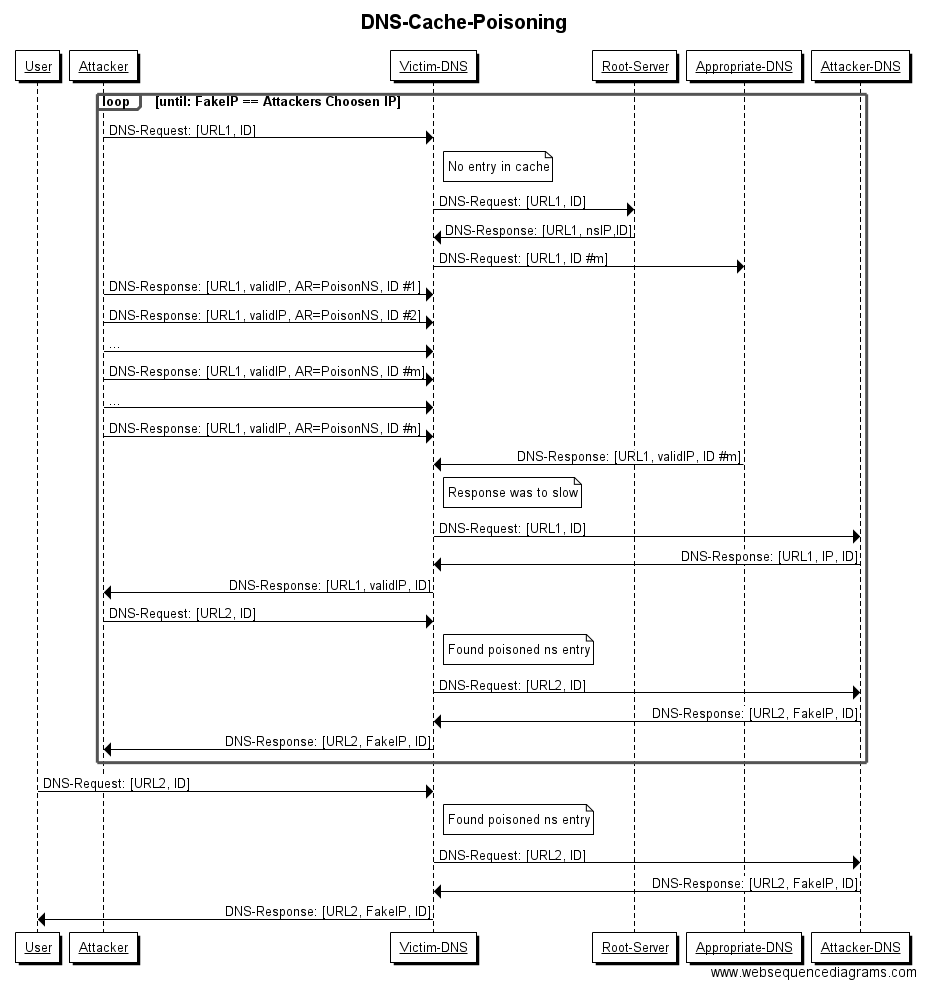
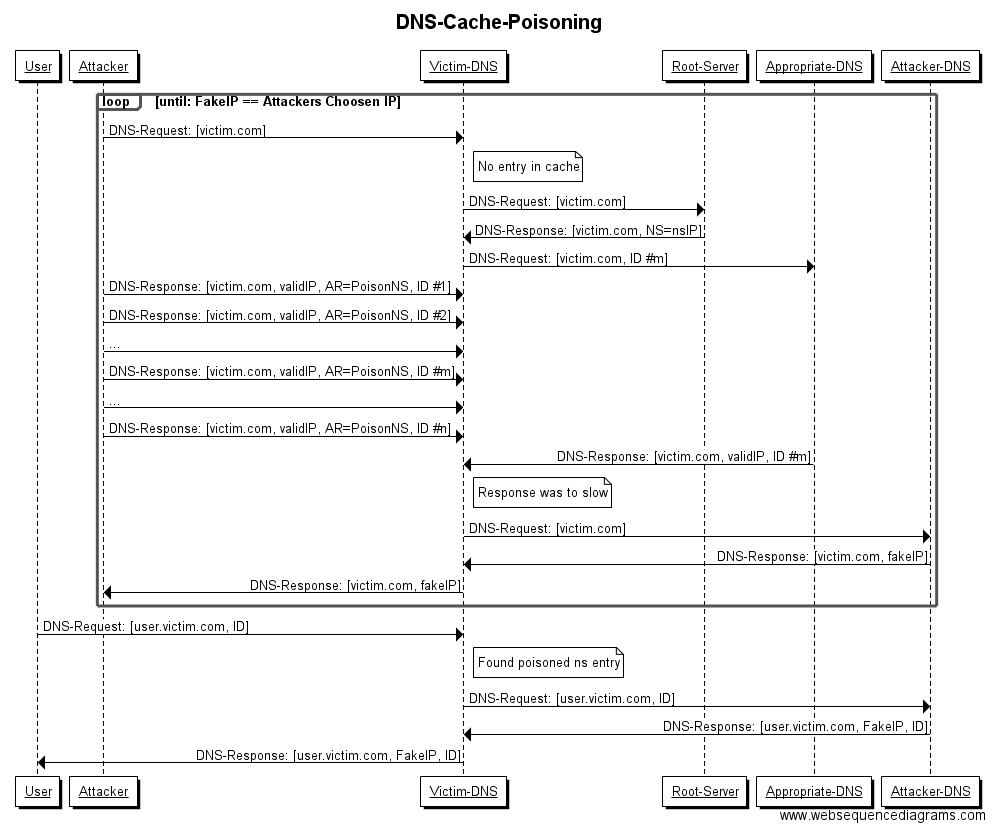
Grundlagen Kaminsky und neues Diagramm

Changed region(s): [[0.0, 0.0, 0.9989, 0.994], [0.6357, 0.9337, 0.9989, 0.994], [0.787, 0.3012, 0.8173, 0.3313]]

diff --git a/Aufgabe_3/Ausarbeitung.tex b/Aufgabe_3/Ausarbeitung.tex
@@ -51,8 +51,7 @@ Die DNS-Antwort zu fälschen ist in sofern Problematisch, dass sie eine 16 Bit l
 
 Ist man beim ersten Versuch nicht erfolgreich so wird der Ziel-DNS-Server die Korrekte Antwort zwischenspeichern, so dass erst nach Ablauf der Time-To-Live, also der Gültigkeitsdauer der validen DNS Antwort, ein neuer Versuch unternommen werden kann.
 
-%Geburtstagsparadoxon verbessern
-Bei BIND handelt es sich um den standard DNS-Server auf einem Linux System. Ältere Versionen hatten verschiedene Probleme und Schwachstellen. Beispielsweise unter BIND 8 wurde die Transaktionsnummer bei jeder Anfrage iteriert. Dadurch war es für einen Angreifer leicht, die nächsten Transaktionsnummern vorherzusagen. Sendet der angegriffene Resolver eine identische DNS-Anfrage mehrfach mit verschiedenen Transaktionsnummern, erhöht sich die Erfolgswahrscheinlichkeit aufgrund des Geburtstagsparadoxons erheblich.
+Bei BIND handelt es sich um den standard DNS-Server auf einem Linux System. Ältere Versionen hatten verschiedene Probleme und Schwachstellen. Beispielsweise unter BIND 8 wurde die Transaktionsnummer bei jeder Anfrage iteriert. Dadurch war es für einen Angreifer leicht, die nächsten Transaktionsnummern vorherzusagen. Sendet der angegriffene Resolver eine identische DNS-Anfrage mehrfach mit verschiedenen Transaktionsnummern, erhöht sich die Erfolgswahrscheinlichkeit aufgrund des Geburtstagsparadoxons erheblich. Dieser Punkt wird jedoch noch genauer im nächsten Kapitel behandelt.
 
 War der Angriff nicht erfolgreich, befindet sich der korrekte Resource Record im Cache, sodass der Angreifer erst nach Ablauf der Time to Live (TTL) einen erneuten Versuch unternehmen kann.
 
@@ -63,7 +62,7 @@ Wie bereits erwähnt, muss der Angreifer zuerst einen eigenen DNS-Server (Attack
 
 {
 \centering
-\includegraphics[scale=0.4]{DNS-Cache-Poisoning.png}
+\includegraphics[scale=0.45]{DNS-Cache-Poisoning.png}
 \newpage
 }
 
@@ -74,18 +73,14 @@ Wichtig ist, dass die Seite noch nicht (kurz vorher) angefragt wurde, da der Vic
 Nachdem der Victim-DNS die IP-Adresse des zuständigen NS-Server empfangen hat, stellt er die DNS-Anfrage an den Appropriate-DNS. Dieses Zeitintervall wird vom Angreifer ausgenutzt, um gefälschte DNS-Antworten zu generieren bzw. an den Victim-DNS zu versenden. Hier ist es wichtig, dass die Transaktionsnummer richtig geraten wird, die Source-IP muss gleich dem zuständigen Appropriate-DNS sein. Weiter muss auch der Name des zuständigen Appropriate-DNS entsprechend gefälscht werden und das Paket muss über die gleichen Ports eingehen, die zum Versenden der Anfrage vom Victim-DNS verwendet wurden. Als letztes muss natürlich auch die DNS-Anfrage (genauer: die Question-Sektion) im Antwortpaket enthalten sein und es muss einen NS-Record enthalten, damit der Victim-DNS nochmal den Attacker-DNS nach der IP für \emph{victimg.com} anfragt.\\
 
 %% TODO 
-\textbf{[WIEVIELE PAKETE AUSREICHEN UND WIE DAS GANZE LAUFEN SOLL]}\\
+\textbf{[TODO: WIEVIELE PAKETE AUSREICHEN UND WIE DAS GANZE LAUFEN SOLL]}\\
 %%
 
-Wenn jetzt das \glqq richtige\grqq\ Antwortpaket vom Approriate-DNS an den den Victim-DNS gesendet wird, ist das vom Angreifer erstellte und versendete Paket jedoch längst angekommen und auch angenommen. Dadurch wird die Antworten des richtigen Appropriate-DNS vom Victim-DNS ignoriert und verworfen. Da dem Victim-DNS durch das gefälschte Paket mitgeteilt wurde, dass der Attacker-DNS für die IP-Auflösung zuständig ist, sendet der Victim-DNS erneut eine DNS-Anfrage. Jetzt kann der Attacker-DNS mit einer vom Angreifer selbst gewählten IP antworten. In einem letzten Schritt wird die aufgelöste IP jetzt noch vom Victim-DNS zurück an den Anreifer gesendet. Der Angreifer überprüft jetzt ob die Antwort der DNS-Anfrage von \emph{victim.com} die von ihm selbst gewählte IP beinhaltet. Sollte dem nicht der Fall sein, so versucht er den gesamten Vorgang erneut.\\
+Wenn jetzt das \glqq richtige\grqq\ Antwortpaket vom Approriate-DNS an den den Victim-DNS gesendet wird, ist das vom Angreifer erstellte und versendete Paket jedoch längst angekommen und auch angenommen. Dadurch wird die Antworten des richtigen Appropriate-DNS vom Victim-DNS ignoriert und verworfen. Da dem Victim-DNS durch das gefälschte Paket mitgeteilt wurde, dass der Attacker-DNS für die IP-Auflösung zuständig ist, sendet der Victim-DNS erneut eine DNS-Anfrage. Jetzt kann der Attacker-DNS mit einer vom Angreifer selbst gewählten IP antworten. In einem letzten Schritt wird die aufgelöste IP jetzt noch vom Victim-DNS zurück an den Anreifer gesendet. Der Angreifer überprüft jetzt ob die Antwort der DNS-Anfrage von \emph{victim.com} die von ihm selbst gewählte IP beinhaltet. Sollte dem nicht der Fall sein, so versucht er den gesamten Vorgang erneut.
 
-%% TODO 
-\textbf{[ABÄNDERUNG DER SUBDOMAINS BESCHREIBEN]}\\
-%% 
+Um einen Overload beim DNS-Server zu verhinden, werden alle Angefragten IP-Auflösungen kurzfristig im Cache gespeichert. Daher kann der Angreifer nicht einfach erneut die gleiche Domain anfragen. Um das Caching zu verhinern und dem Angriff somit ein größeres Zeitfenster zu schaffen, stellt der Angreifer die Anfrage immer an ein anderes Subdomains als die Male zuvor. Beispielsweise könnte beim ersten Mal die Domain \emph{www1.victim.com} angefragt werden und beim zweiten Mal die Domain \emph{www12.victim.com}. Dadurch wird der Victim-DNS dazu \glqq gezwungen\grqq\ die Anfragen erneut an den NS-Server dieser Domain zu stellen.
 
-%% TODO 
-\textbf{[WAS PASSIERT JETZT FÜR EINEN NORMALEN BENUTZER]}\\
-%%
+Angenommen der Angriff hat nach einigen Versuchen funktioniert und der Cache wurde erfolgreich \glqq injected\grqq\ ergibt sich für einen normalen Benutzer folgendes Szenario: Der Benutzer stellt eine DNS-Anfrage an den Victim-DNS für die Domain \emph{user.victim.com}. Der Victim-DNS hat noch aufgrund des \glqq Poisonings\grqq\ einen Eintrag im Cache, dass der Attacker-DNS authorotative für die Domain sei. Aufgrundessen fragt der Victim-DNS beim Attacker-DNS nach der IP für die angefragte Domain nach. Der Attacker-DNS antwortet darauf mit einer zuvor festgelegten IP die auf eine vom Angreifer kontrollierte Webseite leitet. Der Victim-DNS leitet die IP-Adresse als letzten Schritt an den Benutzer weiter, welcher sich anschließend mit der \glqq falschen\grqq\ Webseite verbindet.
 
 \section{Konfigurationen der Server und Schnittstellen}
 Dieses Kapitel beschäftig sich mit unserer Netzwerkstruktur, den verwenden System und ihren Konfigurationen. Zu erst wird auf den aus Ausgabe 2 in Python implementierten DNS-Server eingegangen. Anschließend werden die Konfigurationen des in Ubuntu aufgesetzten DNS-Servers dargelegt und genauer Erläutert. Im letzten Abschnitt dieses Kapitels wird die Architektur unseren Netwerks dargestellt. Genauer heißt das, wie kommunizieren die einzelnen Parteien miteinander und wie sind sie verbunden.
@@ -154,11 +149,6 @@ Anschließend wird eine Antwort gebildet, welche zu der Angefragen Website die I
     qr=1 & Die Flag qr steht für Query/Response. Eine eins im Paket bedeutet, dass es sich um eine Antwort handelt\\ \hline
     opcode=0 & Durch diese Option wird angegeben, dass es sich um eine Standard-Query handelt\\ \hline
     aa=1 & Wie bereits in Kapitel X erkläutert wurde, ist es wichtig, dass es sich bei der Antwort um eine \glqq Authoritative\grqq \ Antwort handelt. Das setzen der Flag auf den Wert Eins wird die Antwort Authoritative.\\ \hline
-    \end{tabular}
-\end{center}    
-\begin{center}
-    \begin{tabular}{ | p{4.8cm} | p{8.5cm} |}
-    \hline
     tc=0 & Sollten die zu übermittelnden Daten größer als 512 Bytes sein, sind UDP-Pakete zu kleine für eine solche Antwort. In diesem Fall müsste das Bit auf Eins gestellt werden um dem Empfänger des Paketes anzugeben, das es sich um ein TCP-Package handelt.\\ \hline
     rd=0, ra=0 & Die beiden Flags sind zum Angeben das eine Rekursion benötigt (desired) oder verfügbar (available) ist. In unserem Fall beantworten wir jedoch die Anfragen alle mit einer IP, daher kann diese Option auf Null gesetzt werden.\\ \hline
     z=0 & Hierbei handelt es sich um ein reserviertes Bit, welches immer auf Null gesetzt sein muss.\\ \hline
@@ -330,15 +320,13 @@ while True:
 \subsection{Schutz gegen den Angriff}
 Das eigentliche Problem des Angriffslies sich nicht beheben ohne die Kompatibilität zum bisherigen DNS Protokoll zu verlieren, daher wurden weitere Zufallsquellen neben der bestehenden ID-Randomization eingerichtet.
 
-\subsection*{Transaktionsnummer}
-Die Transaktionsnummer ist eine 16 Bit lange Zahl die vom Ziel-Server beim erstellen der Anfrage generiert wurde. Sie muss bei der Antwort gleich lauten wie bei der Anfrage und Existierte bereits vor bekannt werden das Angriffs. Manche Implementierungen waren allerdings leicht angreifbar, da die ID nicht zufällig gewählt wurde, sondern einfach bei jeder Anfrage Inkrementiert wurde. War also die Transaktionsnummer einer vorherigen Anfrage bekannt schränkte dies die möglichen Transaktionsnummern erheblich ein. Dies wurde durch einen Pool von zufällig gewürfelten Transaktionsnummern behoben, von denen für die Anfrage zufällig eine ausgewählt wird.
+\subsection*{Gleichverteilte Transaktionsnummern}
+Die Transaktionsnummer ist eine 16 Bit lange Zahl die vom Ziel-Server beim erstellen der Anfrage generiert wurde. Sie muss bei der Antwort gleich lauten wie bei der Anfrage und Existierte bereits vor bekannt werden das Angriffs. Manche Implementierungen waren allerdings leicht angreifbar, da die ID nicht zufällig gewählt wurde, sondern einfach bei jeder Anfrage Inkrementiert wurde. War also die Transaktionsnummer einer vorherigen Anfrage bekannt schränkte dies die möglichen Transaktionsnummern erheblich ein. Dies wurde durch einen Pool von zufällig gewürfelten Transaktionsnummern behoben, von denen für die Anfrage zufällig eine ausgewählt wird. Sollten alle möglichen Transaktionsnummern gleichverteilt gewählt werden, ergibt sich eine Wahrscheinlichkeit von $1/2^{16}$ pro Transaktionsnummer. Das alleine reicht jedoch wie im Angriff von Kaminky gezeigt wurde nicht aus um eine verfälschung zu verhindern. 
 
-\subsection*{Zufällige Quell Port}
-Früher wurden DNS anfragen standardmäßig über Port 53 gestellt. Dies machte es einfach gefälschte Antworten zu senden. In neueren Implementierungen wurde daher die sogenannte Source-Port-Randomization eingeführt. Hierbei wird der Ausgangsport für die Anfrage zufällig gewählt, was, je nach Implementierung weitere 11–16 Bit Zufall liefert.
+\subsection*{Port-Randomization}
+Früher wurden DNS anfragen standardmäßig über Port 53 gestellt. Dies machte es einfach gefälschte Antworten zu senden. In neueren Implementierungen wurde daher die sogenannte Source-Port-Randomization eingeführt. Hierbei wird der Ausgangsport für die Anfrage zufällig gewählt. Da es erforderlich ist, über den gleichen Port zu antworten, ergeben sich mindestens $2^{11}$ mögliche Ports. Sollten alle möglichen Ports verwendet werden, können bis zu $2^{16}$ Ports erschlossen werden. In Verbindung mit der Gleichverteilung der Transaktionsnummern ergeben sich dann $2^{16} \cdot 2^{11}$ Möglichkeiten.
 
-\subsection*{Random URL Capitalizing}
-Eine weitere Methode ist das Random URL Capitalizing oder auch 0x20-Bit Encoding. Hierbei wird die angefragte Domain zufällig in Klein- und Großbuchstaben geschrieben. Die Groß- und Kleinschreibeung ist bei DNS anfragen äquivalent, nach RFC 1034 sollte die Schreibweise bei der Antwort alledings gleich sein wie bei der Anfrage. Die Größe des Zufalls ist hierbei von der Länge der angefragten Domain abhängig.
-
-\section{Fazit}
+\subsection*{Random-URL-Capitalizing}
+Um die Möglichen Paare für den Angreifer noch weiter zu erhöhen und somit den Angriff noch Unrealistischer zu gestalten, ist eine weitere Methode das Random-URL-Capitalizing oder auch 0x20-Bit Encoding. Hierbei wird die angefragte Domain zufällig in Klein- und Großbuchstaben geschrieben. Die Groß- und Kleinschreibeung ist bei DNS anfragen äquivalent, nach RFC 1034 sollte die Schreibweise bei der Antwort alledings gleich sein wie bei der Anfrage. Die Größe des Zufalls ist hierbei von der Länge der angefragten Domain abhängig. Sei nun $|\mathit{URL}|$ die anzahl der Buchstaben in einer URL so ergeben sich $2^{|URL|}$ Moglichkeiten der Groß- und Kleinschreibung. Sollten also alle 3 Verteidigungsmechanismen verwendet werden, ergeben sich insgesamt $2^{16} \cdot 2^{11} \cdot 2^{|URL|}$ mögliche Kombinationspaare aus Transaktionsnummer, Port, und Groß- und Kleinschreibung die der Angreifer korrekt raten muss.
 
 \end{document}
